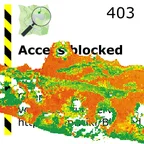
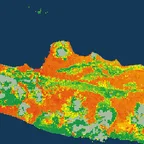
Replace blocked Monev preview basemap with local Natural Earth

diff --git a/src/inarisk.js b/src/inarisk.js
@@ -19,7 +19,7 @@ export function mountInarisk({map,bounds,refreshIcons,onAbout,onOpen}){
  monevButton.setAttribute('aria-controls','monev-overlays');
  document.querySelector('#risk-layer-buttons').append(monevButton);
  const monevLayers = new Map();
- const panel=document.createElement('section');panel.className='inarisk-panel hidden';panel.setAttribute('aria-label','Layer banjir BNPB InaRISK');panel.innerHTML=`<div class="inarisk-head"><span>BNPB / INARISK</span><button id="inarisk-close" aria-label="Tutup panel InaRISK"><i data-lucide="x"></i></button></div><h2>Layer InaRISK</h2><details id="monev-overlays"><summary><span>Overlay Monev</span><span id="monev-count"></span></summary><p class="monev-preview-credit">Cuplikan layer arsip · Peta dasar <a href="https://www.openstreetmap.org/copyright" target="_blank" rel="noopener noreferrer">© OpenStreetMap</a></p><div id="monev-options"></div></details><div id="inarisk-status" role="status">Layer mati. Klik Layer banjir untuk mengaktifkan.</div><details id="inarisk-connection" class="hidden"><summary>Detail koneksi</summary><p id="inarisk-connection-error"></p><a href="/api/inarisk?mode=catalog" target="_blank" rel="noopener noreferrer">Periksa respons katalog ↗</a></details><div id="inarisk-controls" class="hidden"><label class="inarisk-service-label">Kajian InaRISK<select id="inarisk-service"></select></label><label class="inarisk-check"><input type="checkbox" id="inarisk-visible">Tampilkan layer banjir</label><label class="inarisk-opacity-label">Opasitas warna<span id="inarisk-opacity-value">100%</span><input type="range" id="inarisk-opacity" min="0" max="100" value="100" aria-label="Opasitas layer banjir"></label><div id="inarisk-legend"></div><div id="inarisk-summary"></div><div id="inarisk-metadata"></div></div><button id="inarisk-retry">Perbarui layer</button><a href="https://inarisk.bnpb.go.id/" target="_blank" rel="noopener noreferrer" class="inarisk-source-link">Buka InaRISK BNPB <i data-lucide="arrow-up-right"></i></a><details id="inarisk-discharge"><summary>Prakiraan debit sungai · GloFAS</summary><p>Data model dalam m³/detik. Geser peta ke sungai yang ingin dicek, lalu baca nilai sel model terdekat.</p><button id="inarisk-discharge-read" type="button">Baca debit di tengah peta</button><div id="inarisk-discharge-result" role="status"></div></details><p><a href="https://inarisk.bnpb.go.id/dashboard-monev-bencana/" target="_blank" rel="noopener noreferrer">Dashboard dan simulasi resmi BNPB ↗</a></p><button class="inarisk-about" id="inarisk-about">Tentang sumber</button>`;frame.append(panel);
+ const panel=document.createElement('section');panel.className='inarisk-panel hidden';panel.setAttribute('aria-label','Layer banjir BNPB InaRISK');panel.innerHTML=`<div class="inarisk-head"><span>BNPB / INARISK</span><button id="inarisk-close" aria-label="Tutup panel InaRISK"><i data-lucide="x"></i></button></div><h2>Layer InaRISK</h2><details id="monev-overlays"><summary><span>Overlay Monev</span><span id="monev-count"></span></summary><p class="monev-preview-credit">Cuplikan layer arsip · Peta dasar Natural Earth</p><div id="monev-options"></div></details><div id="inarisk-status" role="status">Layer mati. Klik Layer banjir untuk mengaktifkan.</div><details id="inarisk-connection" class="hidden"><summary>Detail koneksi</summary><p id="inarisk-connection-error"></p><a href="/api/inarisk?mode=catalog" target="_blank" rel="noopener noreferrer">Periksa respons katalog ↗</a></details><div id="inarisk-controls" class="hidden"><label class="inarisk-service-label">Kajian InaRISK<select id="inarisk-service"></select></label><label class="inarisk-check"><input type="checkbox" id="inarisk-visible">Tampilkan layer banjir</label><label class="inarisk-opacity-label">Opasitas warna<span id="inarisk-opacity-value">100%</span><input type="range" id="inarisk-opacity" min="0" max="100" value="100" aria-label="Opasitas layer banjir"></label><div id="inarisk-legend"></div><div id="inarisk-summary"></div><div id="inarisk-metadata"></div></div><button id="inarisk-retry">Perbarui layer</button><a href="https://inarisk.bnpb.go.id/" target="_blank" rel="noopener noreferrer" class="inarisk-source-link">Buka InaRISK BNPB <i data-lucide="arrow-up-right"></i></a><details id="inarisk-discharge"><summary>Prakiraan debit sungai · GloFAS</summary><p>Data model dalam m³/detik. Geser peta ke sungai yang ingin dicek, lalu baca nilai sel model terdekat.</p><button id="inarisk-discharge-read" type="button">Baca debit di tengah peta</button><div id="inarisk-discharge-result" role="status"></div></details><p><a href="https://inarisk.bnpb.go.id/dashboard-monev-bencana/" target="_blank" rel="noopener noreferrer">Dashboard dan simulasi resmi BNPB ↗</a></p><button class="inarisk-about" id="inarisk-about">Tentang sumber</button>`;frame.append(panel);
  const status=panel.querySelector('#inarisk-status'),retry=panel.querySelector('#inarisk-retry'),select=panel.querySelector('#inarisk-service'),visible=panel.querySelector('#inarisk-visible'),opacity=panel.querySelector('#inarisk-opacity'),controls=panel.querySelector('#inarisk-controls');
  const connection=panel.querySelector('#inarisk-connection'),connectionError=panel.querySelector('#inarisk-connection-error');
  const setStatus=(text,error=false)=>{if(!error)connection.classList.add('hidden');status.textContent=text;status.classList.toggle('error',error);button.classList.toggle('source-error',error);};
@@ -167,7 +167,7 @@ export function mountInarisk({map,bounds,refreshIcons,onAbout,onOpen}){
    preview.height = 54;
    preview.loading = 'lazy';
    preview.decoding = 'async';
-   if (groupCards.has(service.name)) preview.src = '/monev-previews/'+service.name+'.webp';
+   if (groupCards.has(service.name)) preview.src = '/monev-previews/'+service.name+'.webp?v=2';
    else preview.hidden = true;
    const name = document.createElement('span');
    name.className = 'monev-name';
